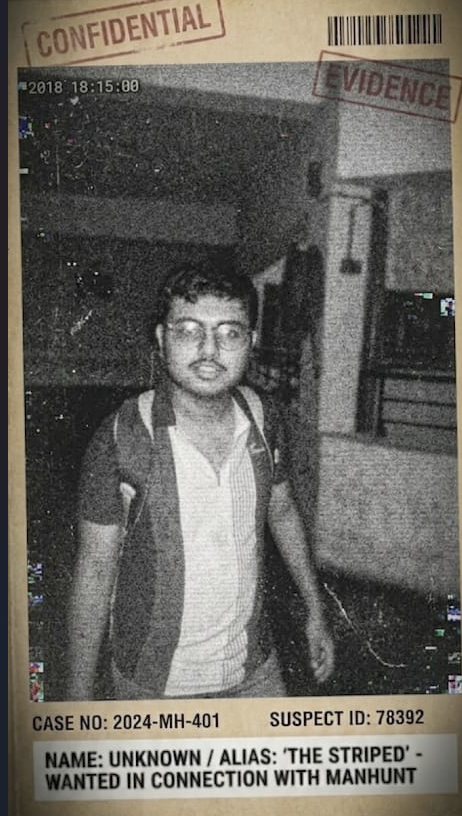
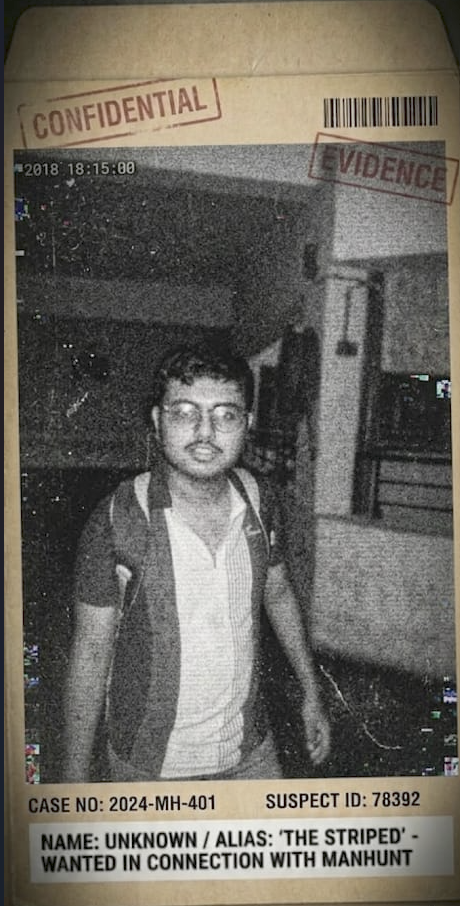
added

diff --git a/index.html b/index.html
@@ -867,8 +867,8 @@
 
             <div style="max-width: 600px; margin: 0 auto; display: flex; align-items: center; justify-content: center;">
                 <!-- Suspect Image -->
-                <div style="position: relative; width: 100%; max-width: 500px; aspect-ratio: 4/5; overflow: hidden; border-radius: 20px; border: 3px solid rgba(255, 0, 110, 0.5); box-shadow: 0 20px 60px rgba(255, 0, 110, 0.3);">
-                    <img src="suspect.png" alt="Suspect" style="width: 100%; height: 100%; object-fit: cover;">
+                <div style="position: relative; width: 100%; max-width: 400px; aspect-ratio: 9/16; overflow: hidden; border-radius: 20px; border: 3px solid rgba(255, 0, 110, 0.5); box-shadow: 0 20px 60px rgba(255, 0, 110, 0.3); background: rgba(0, 0, 0, 0.3);">
+                    <img src="suspect.png" alt="Suspect" style="width: 100%; height: 100%; object-fit: contain;">
                 </div>
             </div>
         </div>
